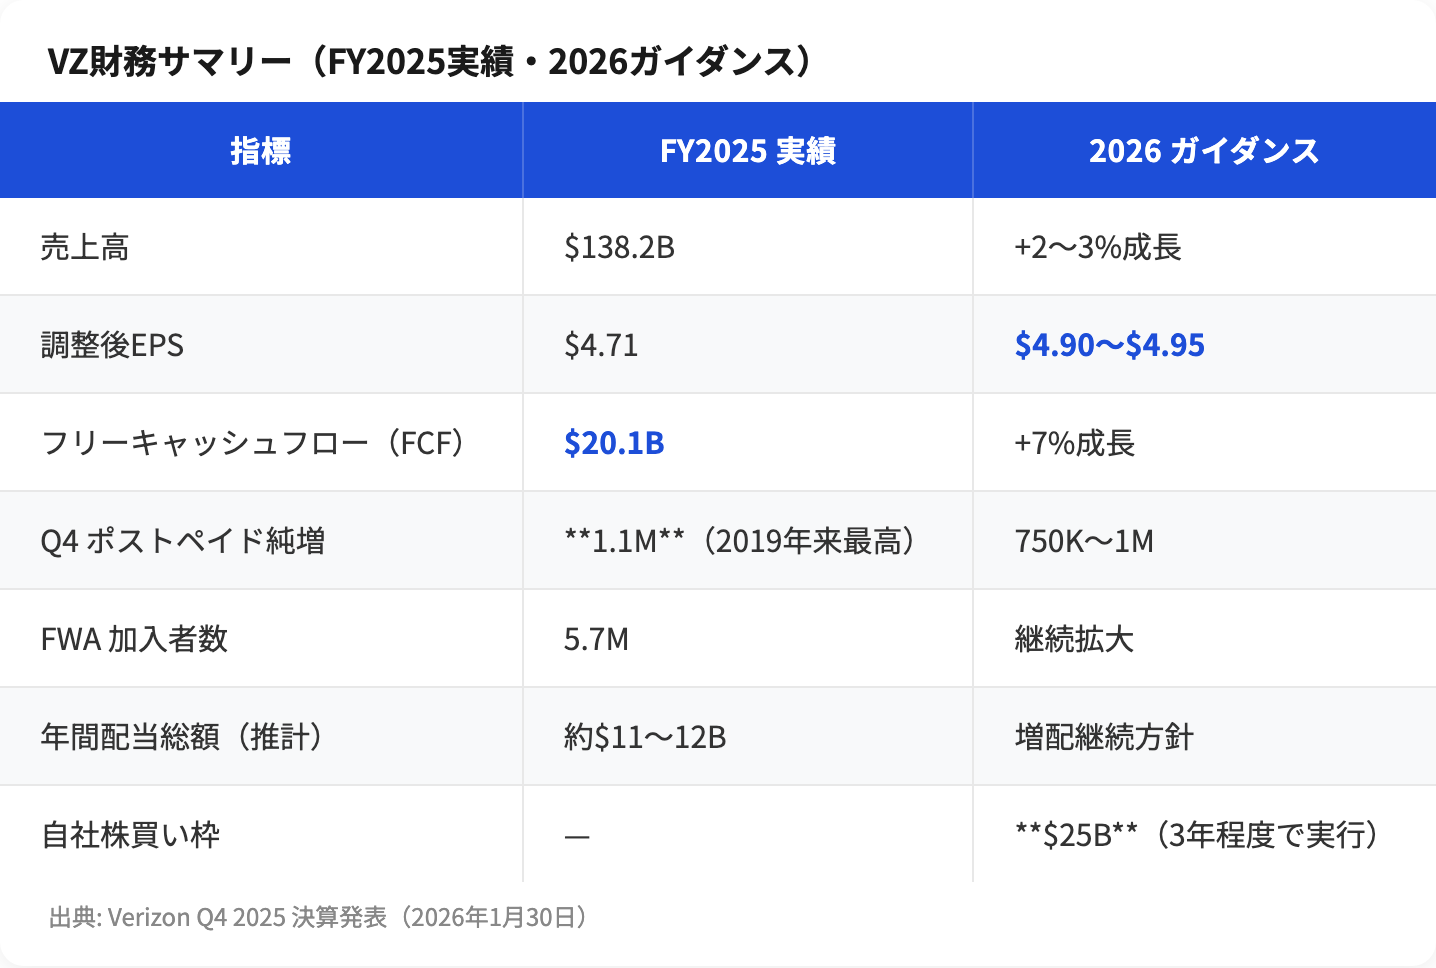
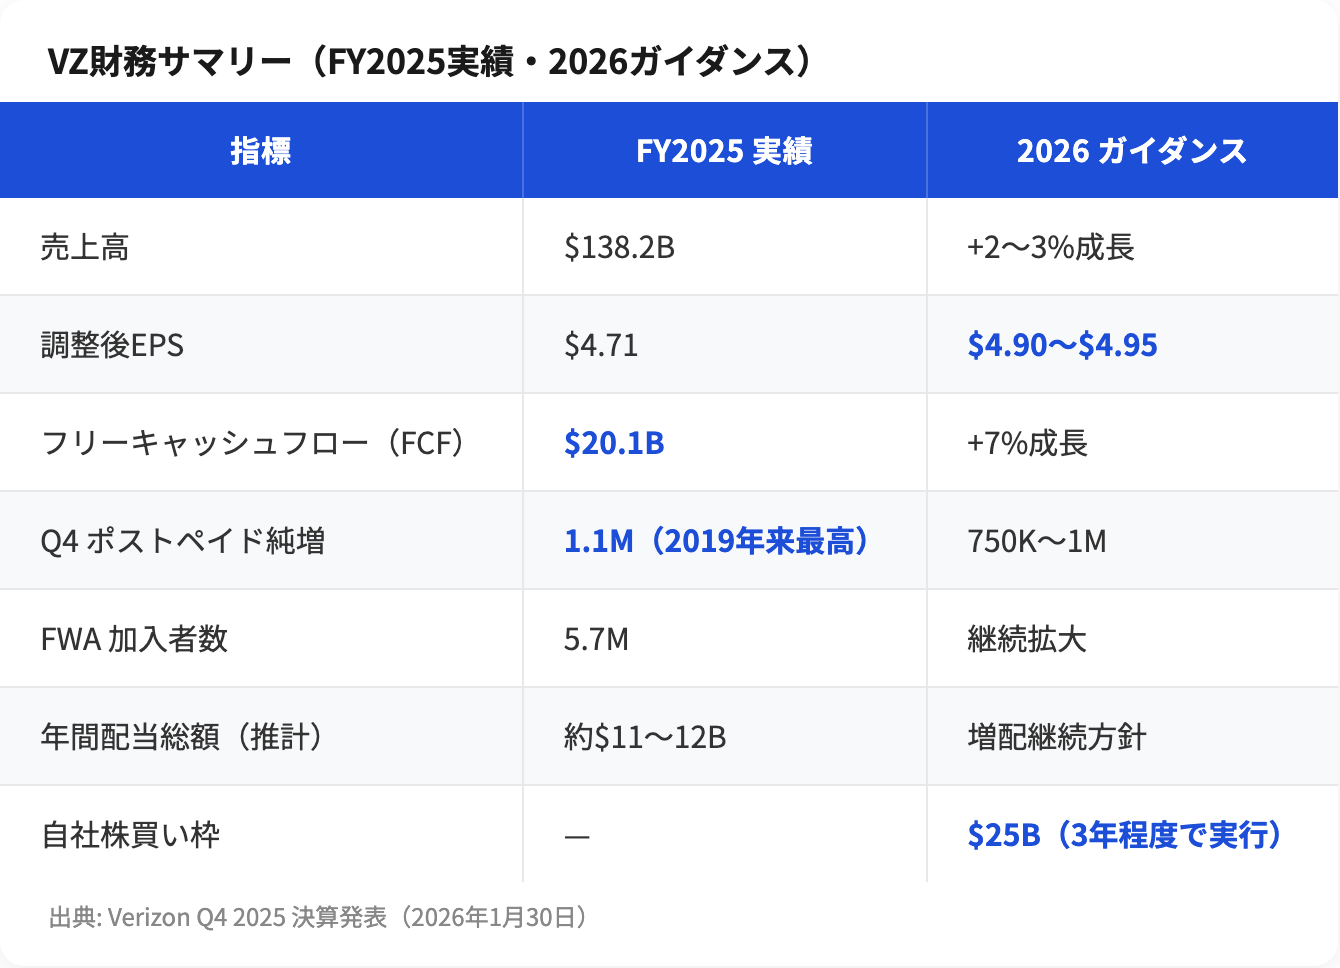
fix(generate-table-image): **val**（補足）形式のMarkdown記法が残る問題を修正
_parse_cell が re.fullmatch を使っていたため、"**1.1M**（2019年来最高）"
のように ** の後ろに追加テキストがある形式でマッチせず、** がそのまま
画像内に表示されていた。

"**" の有無を先に検出し re.sub で除去する方式に変更することで、
** の位置に関わらず正しく太字に変換する。

- scripts/generate_table_image.py: _parse_cell を fullmatch → sub 方式に変更
- .claude/skills/generate-table-image/SKILL.md: 補足付き記法を記載追加
- VZ記事 table_01.png / table_02.png: 修正済みスクリプトで再生成

diff --git a/scripts/generate_table_image.py b/scripts/generate_table_image.py
@@ -76,8 +76,9 @@ def _parse_cell(value: str) -> dict[str, str | bool | None]:
     """セル値をパースし、太字・色マーカーを処理する.
 
     記法:
-        **text**        → 太字 + テーマカラー
-        !!color!!text   → 太字 + 指定色 (red/green/blue/orange またはCSSカラー)
+        **text**            → 太字 + テーマカラー
+        **text**（補足）    → **...** を除去しセル全体を太字 + テーマカラー
+        !!color!!text       → 太字 + 指定色 (red/green/blue/orange またはCSSカラー)
     """
     color_match = re.fullmatch(r"!!(\w+|#[\da-fA-F]{3,6})!!(.*)", value.strip(), re.DOTALL)
     if color_match:
@@ -85,9 +86,11 @@ def _parse_cell(value: str) -> dict[str, str | bool | None]:
         text = color_match.group(2)
         color = _COLOR_MAP.get(color_key, color_key)
         return {"text": text, "bold": True, "align": "left", "color": color}
-    bold_match = re.fullmatch(r"\*\*(.+?)\*\*", value.strip())
-    if bold_match:
-        return {"text": bold_match.group(1), "bold": True, "align": "left", "color": None}
+    # **...** が含まれる場合はセル全体を太字にして ** を除去
+    # fullmatch では "**val**（補足）" がマッチしないため search + sub で処理する
+    if "**" in value:
+        text = re.sub(r"\*\*(.+?)\*\*", r"\1", value.strip())
+        return {"text": text, "bold": True, "align": "left", "color": None}
     return {"text": value, "bold": False, "align": "left", "color": None}
 
 

diff --git a/.claude/skills/generate-table-image/SKILL.md b/.claude/skills/generate-table-image/SKILL.md
@@ -81,6 +81,7 @@ generate_table_image(
 |------|------|
 | `テキスト` | 通常表示 |
 | `**テキスト**` | 太字 + テーマカラーで強調表示 |
+| `**値**（補足説明）` | `**...**` を除去しセル全体を太字で表示（補足付き形式） |
 
 数値・金額・パーセントが多い列は自動で右寄せになる。
 
